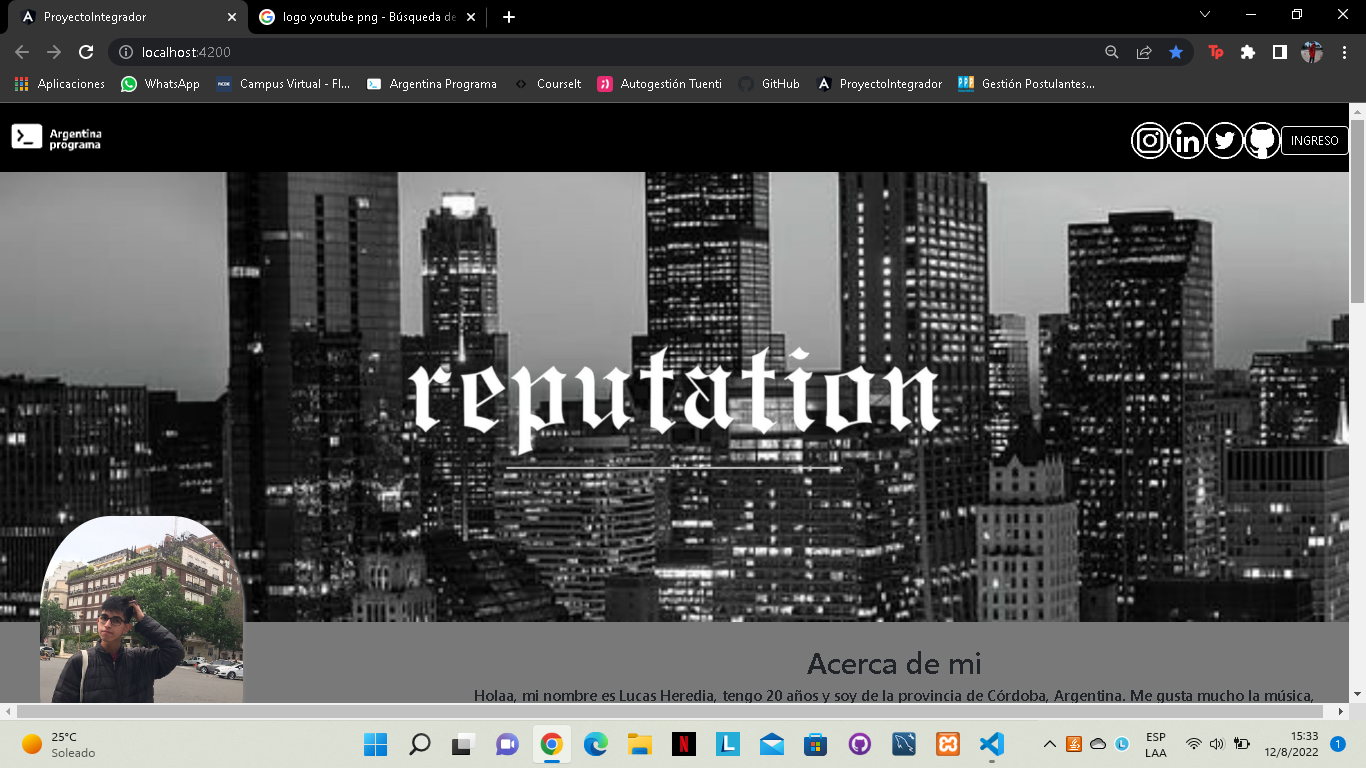
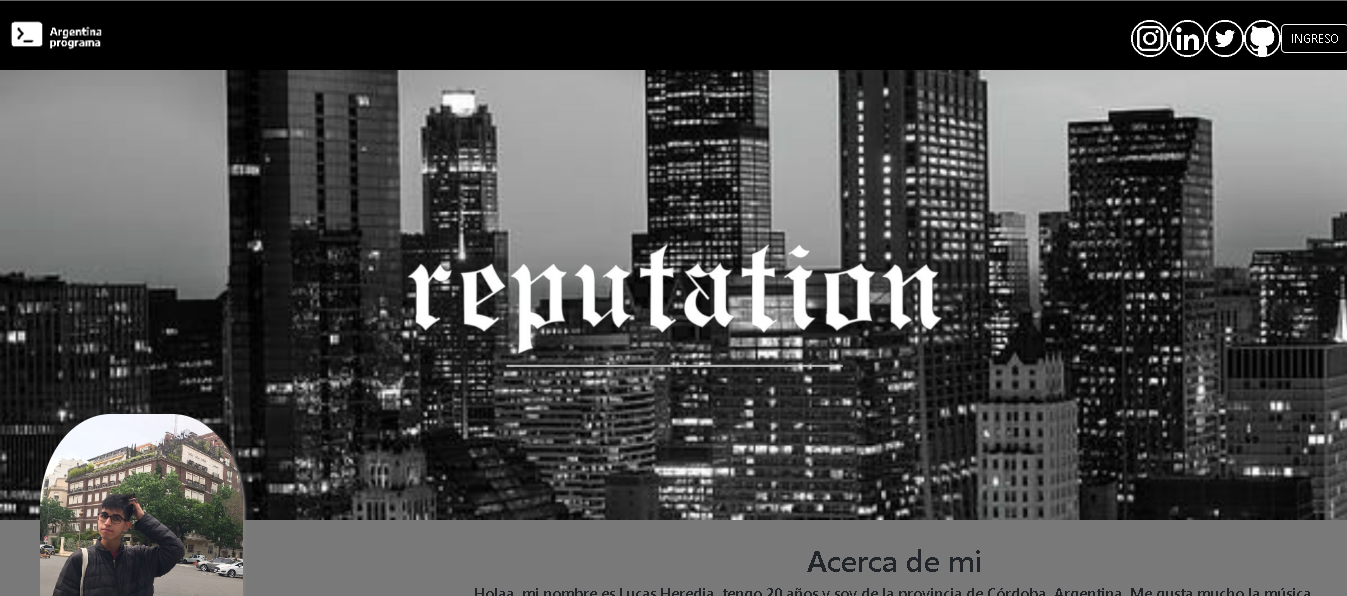
Deploy y cambio de fuente

diff --git a/ProyectoIntegrador_HerediaLucas/FrontEnd/src/app/components/acerca-de/acerca-de.component.html b/ProyectoIntegrador_HerediaLucas/FrontEnd/src/app/components/acerca-de/acerca-de.component.html
@@ -1,3 +1,13 @@
+<body>
+    <link rel="preconnect" href="https://fonts.googleapis.com">
+<link rel="preconnect" href="https://fonts.gstatic.com" crossorigin>
+<link href="https://fonts.googleapis.com/css2?family=Space+Mono:wght@700&display=swap" rel="stylesheet">
+
+<link rel="preconnect" href="https://fonts.googleapis.com">
+<link rel="preconnect" href="https://fonts.gstatic.com" crossorigin>
+<link href="https://fonts.googleapis.com/css2?family=Silkscreen&display=swap" rel="stylesheet">
+</body>
+
 <div class="row">
     <div class="col-xs-12 col-sm-2 col-md-2 col-lg-2">
         <img src="../../../assets/foto de perfil 1.jpg" class="img-fluid" id="fotodeperfil">
@@ -9,7 +19,7 @@
     <div class="col-xs-12 col-sm-8 col-md-8 col-lg-8">
         <span>
             <h1>Acerca de mi</h1>
-            <h5><p>Holaa, mi nombre es Lucas Heredia, tengo 20 años y soy de la provincia de Córdoba, Argentina. Me gusta mucho la música, soy fan de Taylor Swift, Camila Cabello, Tini,etc. Me gusta mucho estudiar, quiero mejorar mi inglés para hablarlo fluidamente,ya que tengo un nivel intermedio.Por ahora me gusta mas el Frontend que el Backend y este es mi primer portfolio donde voy a compartir mis avances en el mundo de la tecnología y la programación. </p></h5>
+            <h4><p>Holaa, mi nombre es Lucas Heredia, tengo 20 años y soy de la provincia de Córdoba, Argentina. Me gusta mucho estudiar, quiero mejorar mi inglés para hablarlo fluidamente,ya que tengo un nivel intermedio.Por ahora me gusta mas el Frontend que el Backend y este es mi primer portfolio donde voy a compartir mis avances en el mundo de la tecnología y la programación. </p></h4>
         </span>
     </div>
 </div>

diff --git a/ProyectoIntegrador_HerediaLucas/FrontEnd/src/app/components/proyecto/proyecto.component.html b/ProyectoIntegrador_HerediaLucas/FrontEnd/src/app/components/proyecto/proyecto.component.html
@@ -1,3 +1,12 @@
+<body>
+    <link rel="preconnect" href="https://fonts.googleapis.com">
+    <link rel="preconnect" href="https://fonts.gstatic.com" crossorigin>
+    <link href="https://fonts.googleapis.com/css2?family=Space+Mono:wght@700&display=swap" rel="stylesheet">
+    
+    <link rel="preconnect" href="https://fonts.googleapis.com">
+    <link rel="preconnect" href="https://fonts.gstatic.com" crossorigin>
+    <link href="https://fonts.googleapis.com/css2?family=Silkscreen&display=swap" rel="stylesheet">
+  </body>
 <div class="row">
     <h1>Proyectos Realizados</h1>
     <div class="contenedor">

diff --git a/ProyectoIntegrador_HerediaLucas/FrontEnd/src/app/components/hardandsoftskilss/hardandsoftskilss.component.html b/ProyectoIntegrador_HerediaLucas/FrontEnd/src/app/components/hardandsoftskilss/hardandsoftskilss.component.html
@@ -1,3 +1,8 @@
+<body>
+  <link rel="preconnect" href="https://fonts.googleapis.com">
+<link rel="preconnect" href="https://fonts.gstatic.com" crossorigin>
+<link href="https://fonts.googleapis.com/css2?family=Silkscreen&display=swap" rel="stylesheet">
+</body>
 <div class="row">
     <h1>Hard and Soft Skills</h1>
     <div class="text-center col-sm-4 col-md-4 col-lg-4">

diff --git a/ProyectoIntegrador_HerediaLucas/FrontEnd/src/app/components/experiencia/experiencia.component.html b/ProyectoIntegrador_HerediaLucas/FrontEnd/src/app/components/experiencia/experiencia.component.html
@@ -1,3 +1,8 @@
+<body>
+    <link rel="preconnect" href="https://fonts.googleapis.com">
+<link rel="preconnect" href="https://fonts.gstatic.com" crossorigin>
+<link href="https://fonts.googleapis.com/css2?family=Silkscreen&display=swap" rel="stylesheet">
+</body>
 <div class="row">
     <h1>Experiencia Laboral</h1>
     <div class="col-lg-2">

diff --git a/ProyectoIntegrador_HerediaLucas/FrontEnd/src/app/components/educacion/educacion.component.html b/ProyectoIntegrador_HerediaLucas/FrontEnd/src/app/components/educacion/educacion.component.html
@@ -1,3 +1,8 @@
+<body>
+    <link rel="preconnect" href="https://fonts.googleapis.com">
+<link rel="preconnect" href="https://fonts.gstatic.com" crossorigin>
+<link href="https://fonts.googleapis.com/css2?family=Silkscreen&display=swap" rel="stylesheet">
+</body>
 <div class="row">
     <h1>Educacion</h1>
     <div class="col-lg-2">

diff --git a/ProyectoIntegrador_HerediaLucas/FrontEnd/src/app/service/s-experiencia.service.ts b/ProyectoIntegrador_HerediaLucas/FrontEnd/src/app/service/s-experiencia.service.ts
@@ -7,7 +7,7 @@ import { Experiencia } from '../model/experiencia';
   providedIn: 'root'
 })
 export class SExperienciaService {
-  expURL = 'http://localhost:8080/explab/'
+  expURL = 'https://backendproduccion.herokuapp.com/explab/';
   constructor(private httpClient: HttpClient) { }
 
   public lista(): Observable<Experiencia[]>{

diff --git a/ProyectoIntegrador_HerediaLucas/FrontEnd/src/app/service/educacion.service.ts b/ProyectoIntegrador_HerediaLucas/FrontEnd/src/app/service/educacion.service.ts
@@ -7,7 +7,7 @@ import { Educacion } from '../model/educacion';
   providedIn: 'root'
 })
 export class EducacionService {
-  URL = 'http://localhost:8080/educacion/';
+  URL = 'https://backendproduccion.herokuapp.com/educacion/';
   constructor(private httpClient : HttpClient) { }
 
   public lista(): Observable<Educacion[]>{

diff --git a/ProyectoIntegrador_HerediaLucas/FrontEnd/src/app/service/auth.service.ts b/ProyectoIntegrador_HerediaLucas/FrontEnd/src/app/service/auth.service.ts
@@ -9,7 +9,7 @@ import { NuevoUsuario } from '../model/nuevo-usuario';
   providedIn: 'root'
 })
 export class AuthService {
-  authURL = 'http://localhost:8080/auth/';
+  authURL = 'https://backendproduccion.herokuapp.com/auth/';
 
   constructor(private httpClient: HttpClient) { }
 

diff --git a/ProyectoIntegrador_HerediaLucas/FrontEnd/src/app/service/persona.service.ts b/ProyectoIntegrador_HerediaLucas/FrontEnd/src/app/service/persona.service.ts
@@ -7,7 +7,7 @@ import { persona } from '../model/persona.model';
   providedIn: 'root'
 })
 export class PersonaService {
-  URL = 'http://localhost:8080/personas/';
+  URL = 'https://backendproduccion.herokuapp.com/personas/';
 
   constructor(private http:HttpClient ) { }
 

diff --git a/ProyectoIntegrador_HerediaLucas/FrontEnd/src/app/components/acerca-de/acerca-de.component.css b/ProyectoIntegrador_HerediaLucas/FrontEnd/src/app/components/acerca-de/acerca-de.component.css
@@ -6,6 +6,14 @@ div{
     background-color: #797979;
     text-align: center;
 }
+
+h4{
+    font-family: 'Space Mono', monospace;
+}
+
+h1{
+    font-family: 'Silkscreen', cursive;
+}
 /*estilo de la foto de perfil*/
 @media (min-width: 576px){
     #fotodeperfil{

diff --git a/ProyectoIntegrador_HerediaLucas/FrontEnd/src/app/components/proyecto/proyecto.component.css b/ProyectoIntegrador_HerediaLucas/FrontEnd/src/app/components/proyecto/proyecto.component.css
@@ -15,3 +15,11 @@
 .img-proyecto{
     box-shadow: 10px 10px 30px #000000;
 }
+
+h1{
+    font-family: 'Silkscreen', cursive;
+}
+
+h3,h5{
+    font-family: 'Space Mono', monospace;
+}

diff --git a/ProyectoIntegrador_HerediaLucas/FrontEnd/src/app/components/hardandsoftskilss/hardandsoftskilss.component.css b/ProyectoIntegrador_HerediaLucas/FrontEnd/src/app/components/hardandsoftskilss/hardandsoftskilss.component.css
@@ -1,4 +1,8 @@
-.row{
+.row {
     background-color: #797979;
     padding: 20px;
+}
+
+h1 {
+    font-family: 'Silkscreen', cursive;
 }
